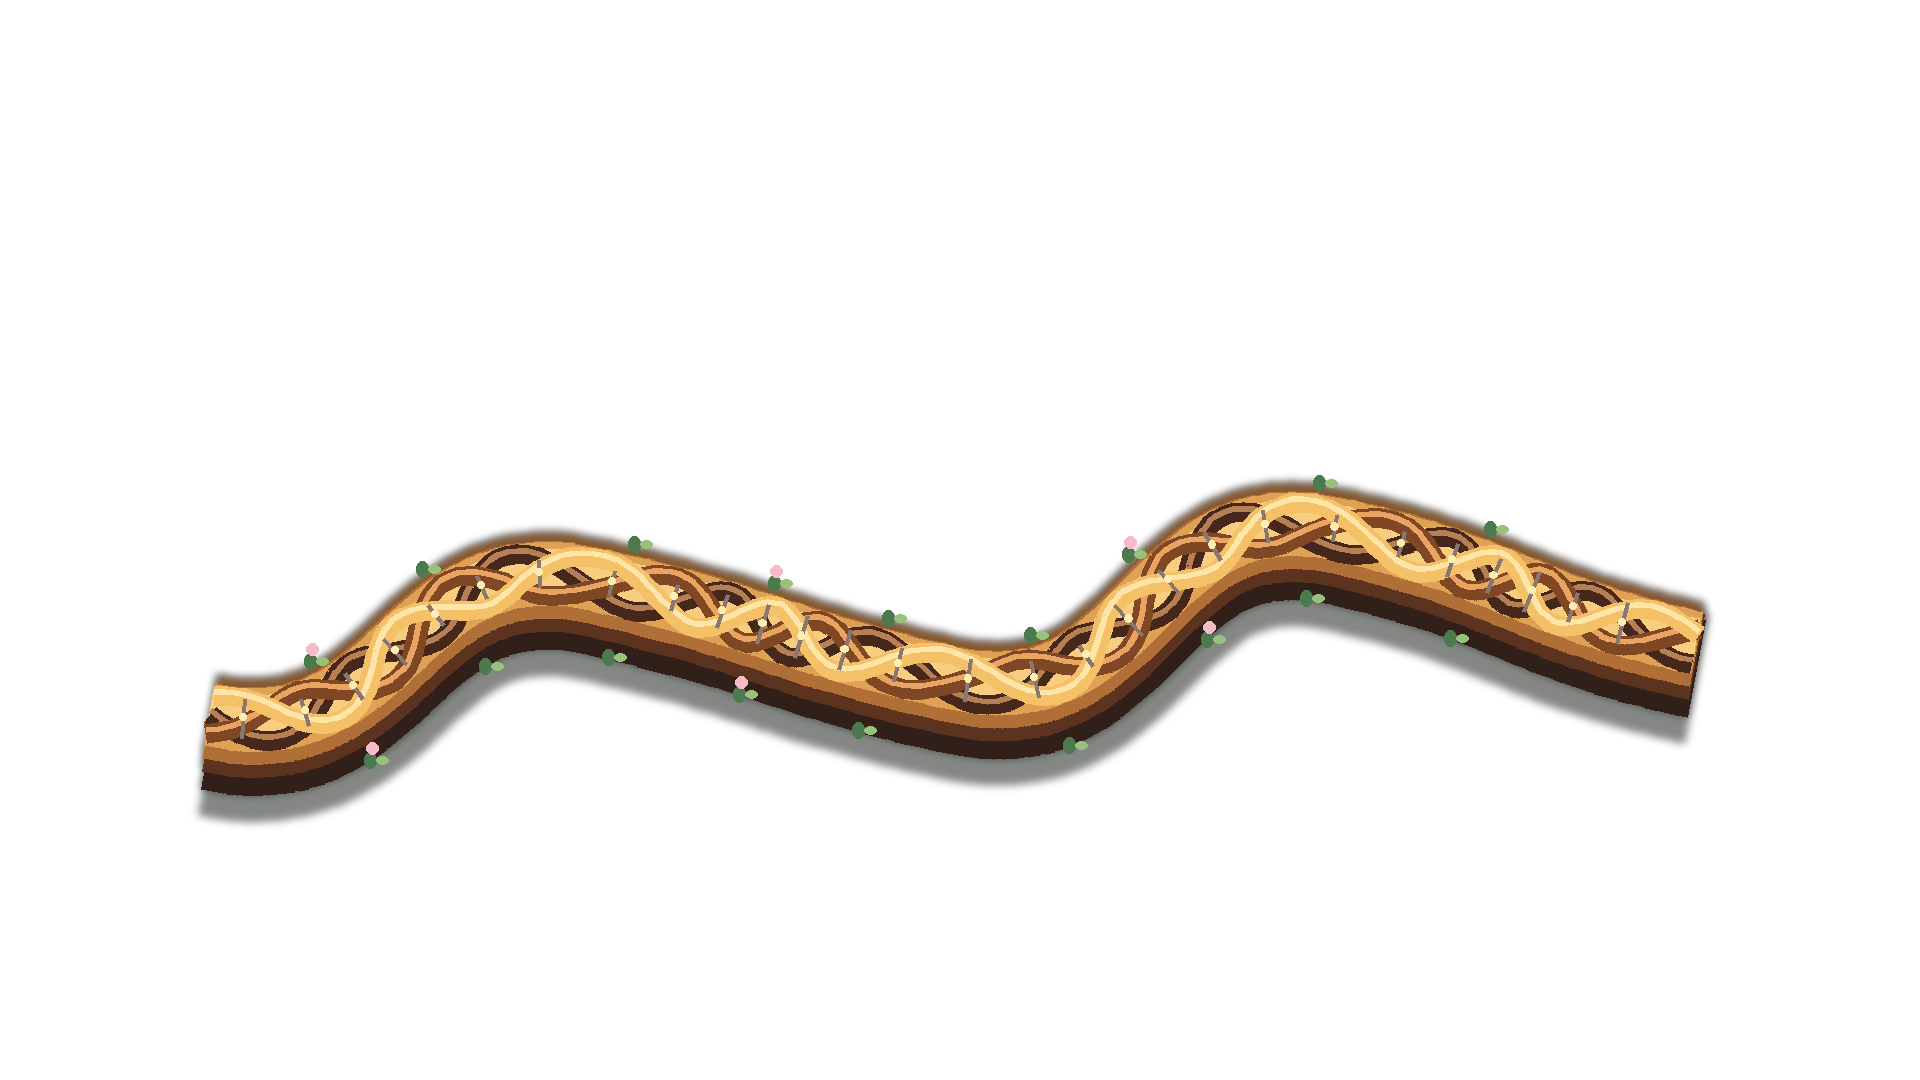
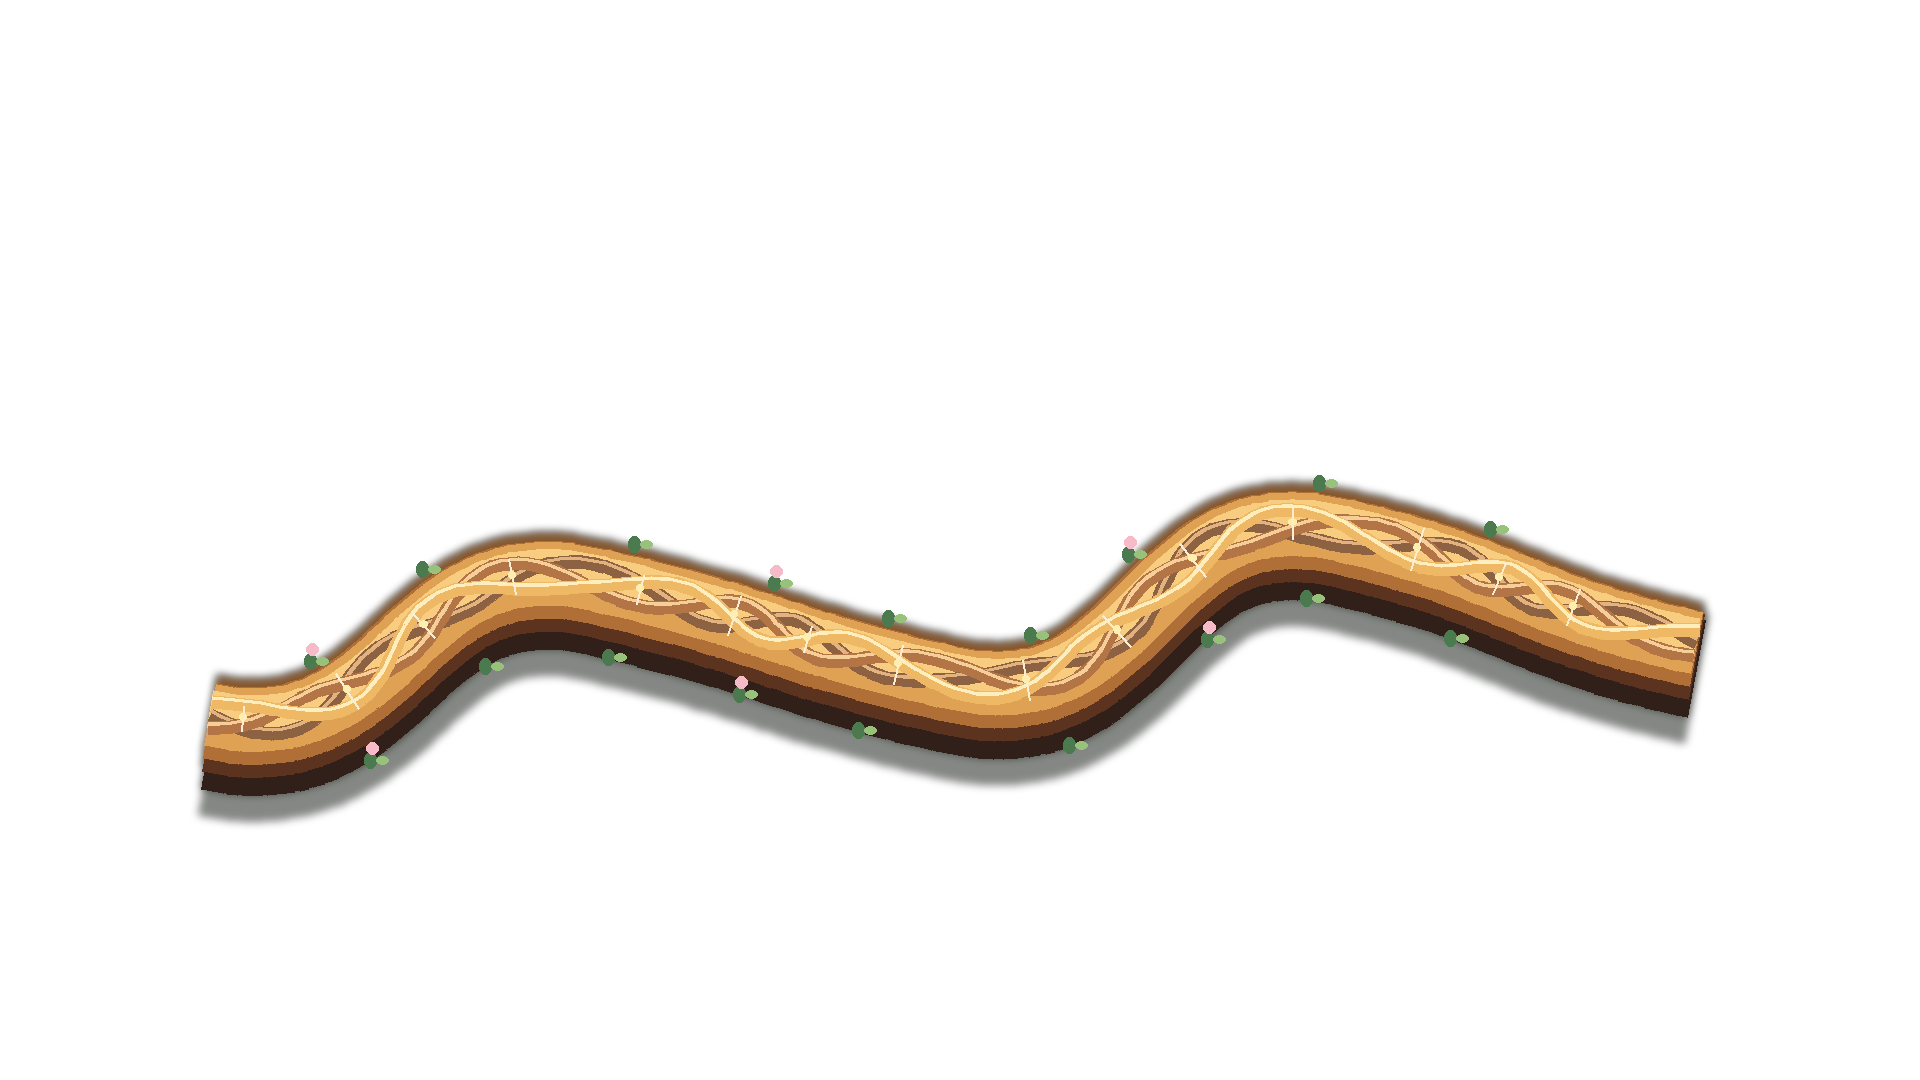
G12 visual polish: soften route stitching and landscape rock contrast

Changed region(s): [[0.0938, 0.4583, 0.9062, 0.7028]]

diff --git a/lab/senda-premium/scripts/build_g12_art.py b/lab/senda-premium/scripts/build_g12_art.py
@@ -49,13 +49,13 @@ for i in range(62):
   d.ellipse(P((x-rr,y-rr*.24,x+rr,y+rr*.26)),fill=col)
   d.arc(P((x-rr,y-rr*.25,x+rr,y+rr*.27)),190,340,fill=(228,190,119,65),width=2*S)
 # lower elevation cliffs on right with edge highlights, flowers and moss
-for i in range(28):
+for i in range(15):
  x=R.uniform(30,955);y=R.uniform(375,570)
  rr=R.uniform(10,39)
- d.polygon([P(p) for p in [(x-rr,y),(x-rr*.76,y-rr*.6),(x+rr*.5,y-rr*.75),(x+rr,y-rr*.1),(x+rr*.28,y+rr*.35)]],fill=R.choice([(44,65,60,138),(89,91,71,145),(66,75,70,155)]))
- d.line([P((x-rr*.76,y-rr*.6)),P((x+rr*.5,y-rr*.75)),P((x+rr,y-rr*.1))],fill=(207,181,126,90),width=2*S)
+ d.polygon([P(p) for p in [(x-rr,y),(x-rr*.76,y-rr*.6),(x+rr*.5,y-rr*.75),(x+rr,y-rr*.1),(x+rr*.28,y+rr*.35)]],fill=R.choice([(44,65,60,70),(89,91,71,95),(66,75,70,90)]))
+ d.line([P((x-rr*.76,y-rr*.6)),P((x+rr*.5,y-rr*.75)),P((x+rr,y-rr*.1))],fill=(207,181,126,45),width=2*S)
 # painted brush vegetation around the bridge but carefully below node hitboxes
-for i in range(1220):
+for i in range(880):
  x=R.uniform(-8,968);y=R.uniform(330,552)
  # don't busy the interactive path itself
  min_dist=min(math.hypot(x-q[0],y-q[1]) for q in PATH[::12]);
@@ -63,7 +63,7 @@ for i in range(1220):
  rad=R.uniform(1.3,7.2); t=R.random()
  palette=[(26,82,54,185),(57,118,68,177),(92,142,71,145),(130,171,85,115),(181,177,92,110),(224,199,125,95)]
  c=palette[min(5,int(t*len(palette)))]; d.ellipse(P((x-rad*.9,y-rad*.48,x+rad,y+rad*.46)),fill=c)
- if i%19==0:
+ if i%21==0:
   d.line([P((x,y+3)),P((x-2,y-7))],fill=(32,88,65,172),width=2*S)
   color=R.choice([(255,205,158,225),(247,166,202,225),(227,193,255,225)])
   for k in range(5):
@@ -92,15 +92,15 @@ for strand in range(3):
   p1=PATH[max(0,i-1)];p2=PATH[min(len(PATH)-1,i+1)]
   dx=p2[0]-p1[0];dy=p2[1]-p1[1];ll=math.hypot(dx,dy) or 1
   normal=(-dy/ll,dx/ll)
-  offset=11*math.sin(i*.26+strand*math.tau/3)
+  offset=7.5*math.sin(i*.22+strand*math.tau/3)
   q.append((x+offset*normal[0],y+offset*normal[1]+1))
- d.line([P(t) for t in q],fill=[(69,39,27,255),(128,71,36,255),(244,192,104,255)][strand],width=10*S,joint='curve')
- d.line([P((x,y-1.9)) for x,y in q],fill=[(174,113,64,228),(230,154,80,229),(255,229,164,245)][strand],width=3*S,joint='curve')
+ d.line([P(t) for t in q],fill=[(129,82,48,232),(177,113,64,248),(238,184,100,255)][strand],width=7*S,joint='curve')
+ d.line([P((x,y-1.9)) for x,y in q],fill=[(222,162,99,211),(245,200,139,226),(255,236,182,232)][strand],width=2*S,joint='curve')
 # decorative braiding knots along center path with directional stitches
-for j in range(3,len(PATH)-3,7):
+for j in range(3,len(PATH)-3,13):
  x,y=PATH[j];p=PATH[j-2];q=PATH[j+2]; angle=math.atan2(q[1]-p[1],q[0]-p[0]);nx=-math.sin(angle);ny=math.cos(angle)
  r=R.uniform(6,11)
- d.line([P((x-nx*r,y-ny*r+1)),P((x+nx*r,y+ny*r+1))],fill=(67,39,30,160),width=2*S)
+ d.line([P((x-nx*r,y-ny*r+1)),P((x+nx*r,y+ny*r+1))],fill=(248,208,136,92),width=S)
  d.ellipse(P((x-1.8,y-1.8,x+1.8,y+1.8)),fill=(255,232,151,190))
 # small floral vine along margins keeping interactable stone nodes clear
 for idx in range(15,len(PATH)-15,19):
